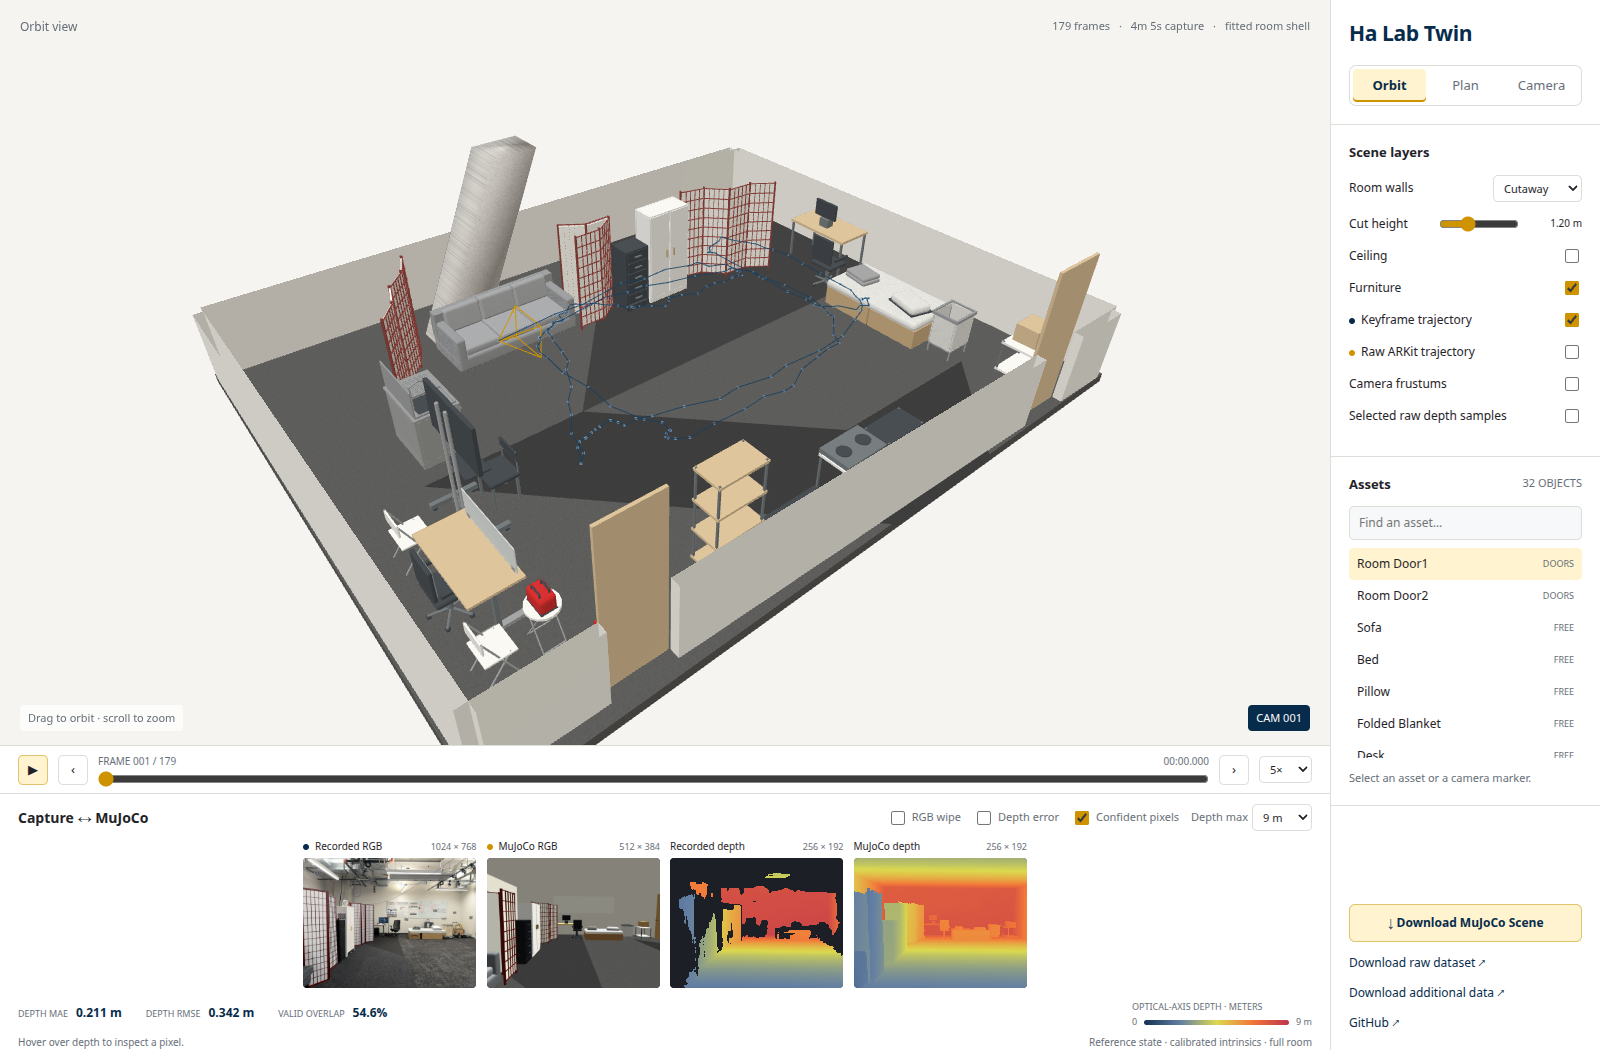
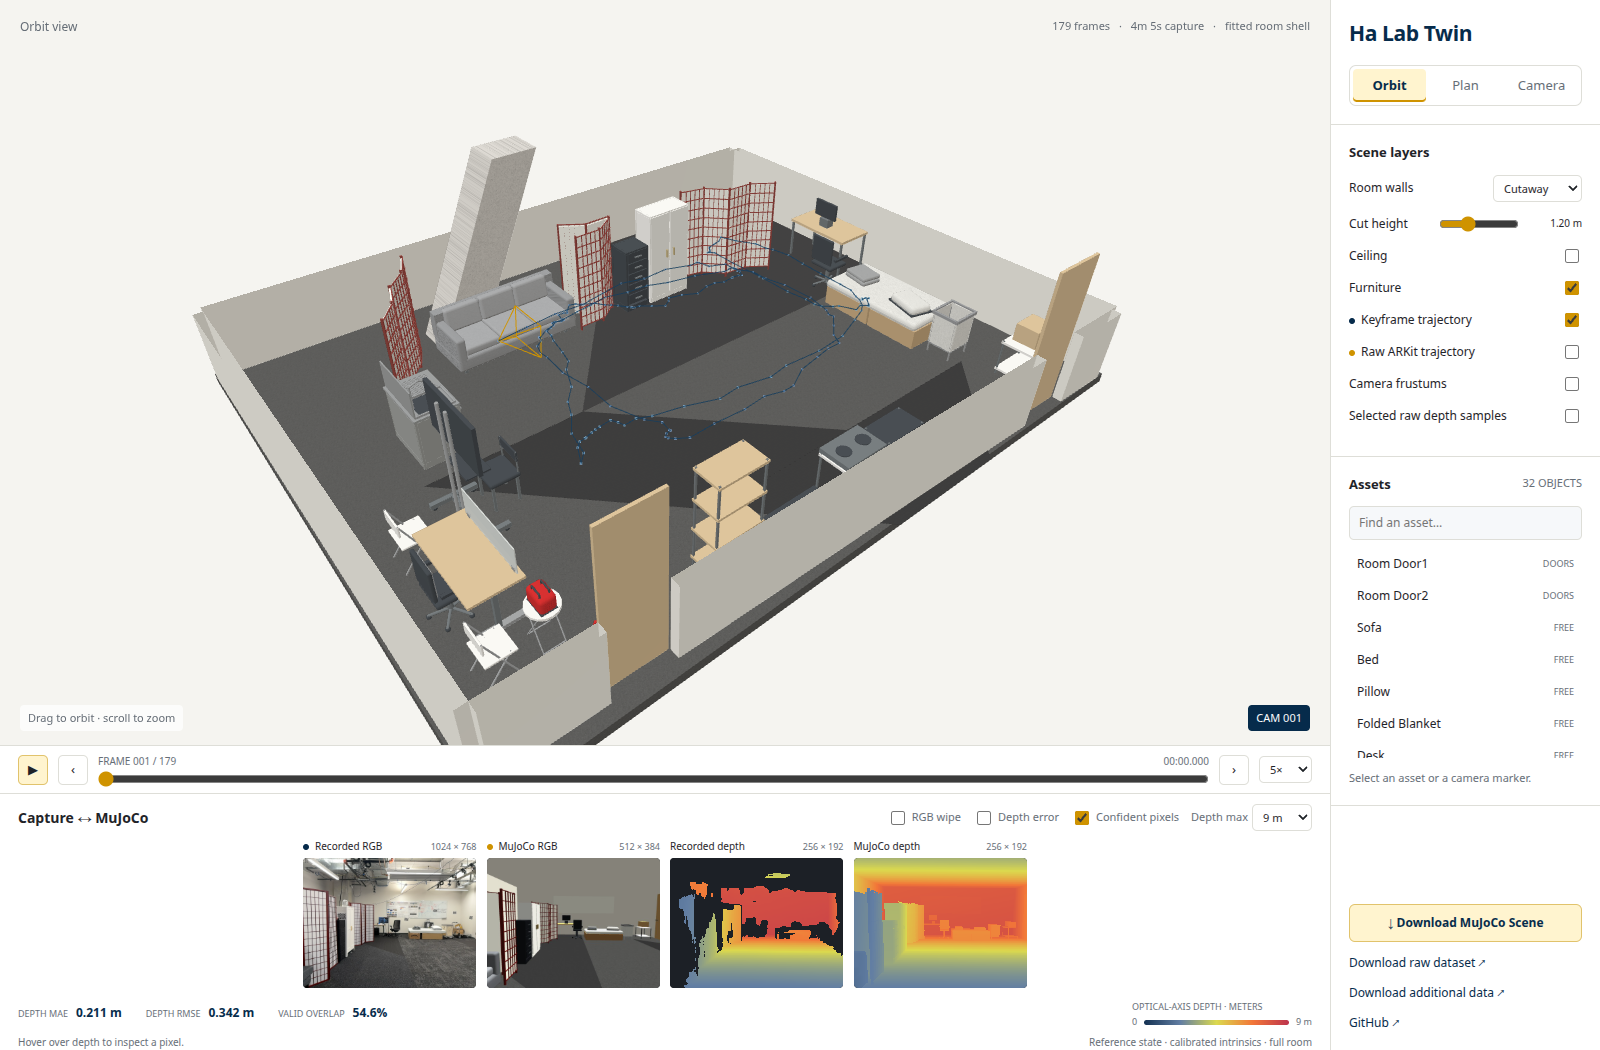
Keep planar floor and pillar surfaces flat in the web renderer

Changed region(s): [[0.8438, 0.5181, 1.0, 0.579], [0.2812, 0.1219, 0.3438, 0.2743]]

diff --git a/mujoco_scene/web/app.js b/mujoco_scene/web/app.js
@@ -24,7 +24,7 @@ function setupScene(){
  controls=new OrbitControls(camera,renderer.domElement);controls.target.set(0,0,0);controls.enableDamping=true;controls.minDistance=.15;controls.maxDistance=35;controls.maxPolarAngle=Math.PI*.95;
  scene.add(new THREE.HemisphereLight(0xffffff,0x96918a,2.5));const light=new THREE.DirectionalLight(0xffffff,2.0);light.position.set(-4,-6,12);scene.add(light);
  for(const g of manifest.geoms){
-  const color=new THREE.Color(...g.rgba.slice(0,3));const material=new THREE.MeshStandardMaterial({color,roughness:1-(g.shininess||.1)*.7,metalness:g.specular>.4?.5:0,side:THREE.DoubleSide,transparent:g.rgba[3]<1,opacity:g.rgba[3]});
+  const color=new THREE.Color(...g.rgba.slice(0,3));const material=new THREE.MeshStandardMaterial({color,roughness:1-(g.shininess||.1)*.7,metalness:g.specular>.4?.5:0,side:THREE.DoubleSide,flatShading:g.name==='concrete_pillar'||g.name.startsWith('floor'),transparent:g.rgba[3]<1,opacity:g.rgba[3]});
   const geometry=makeGeometry(g);
   if(g.texture){material.map=sceneTexture(g.texture);if(g.type==='box'&&g.texture.uniform){const positions=geometry.attributes.position,normals=geometry.attributes.normal,uv=[];for(let i=0;i<positions.count;i++){const n=[Math.abs(normals.getX(i)),Math.abs(normals.getY(i)),Math.abs(normals.getZ(i))],p=[positions.getX(i),positions.getY(i),positions.getZ(i)],axis=n.indexOf(Math.max(...n));uv.push(p[(axis+1)%3],p[(axis+2)%3]);}geometry.setAttribute('uv',new THREE.Float32BufferAttribute(uv,2));}}
   const mesh=new THREE.Mesh(geometry,material);mesh.position.fromArray(g.position);mesh.quaternion.setFromRotationMatrix(new THREE.Matrix4().set(...g.rotation[0],0,...g.rotation[1],0,...g.rotation[2],0,0,0,0,1));mesh.userData=g;mesh.userData.referencePosition=mesh.position.clone();mesh.userData.referenceQuaternion=mesh.quaternion.clone();meshById.set(g.id,mesh);scene.add(mesh);meshList.push(mesh);
